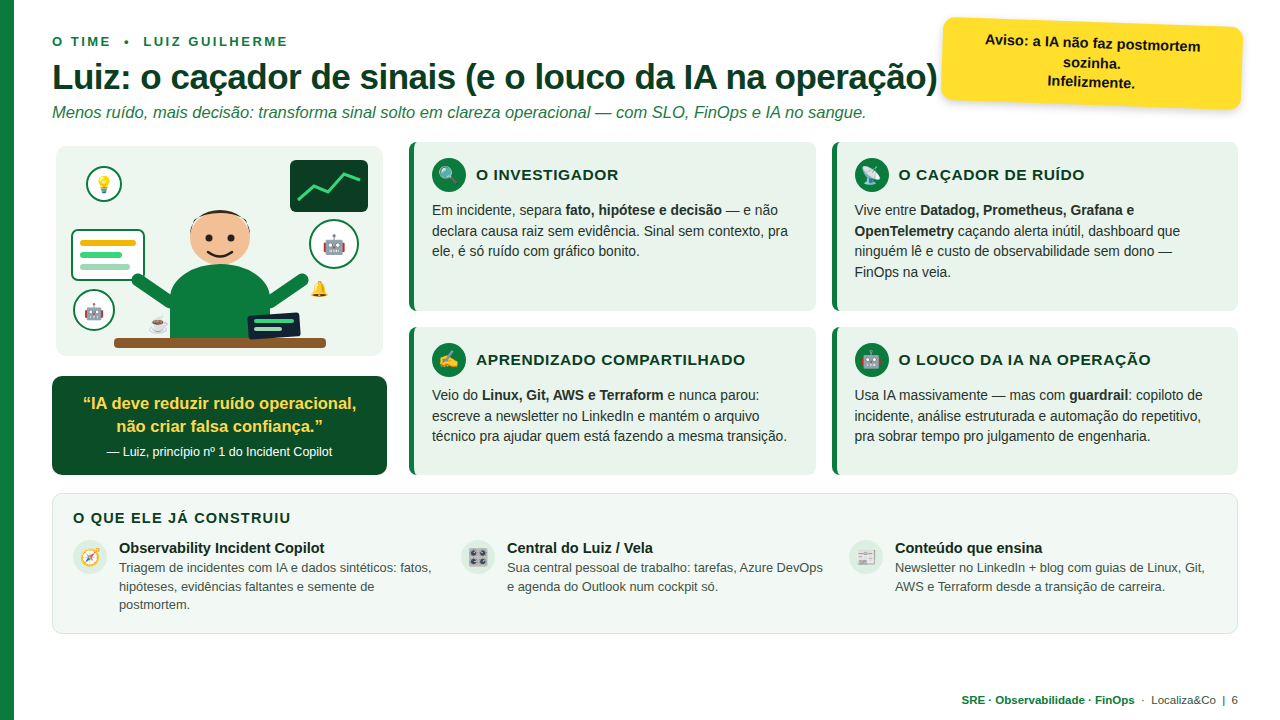
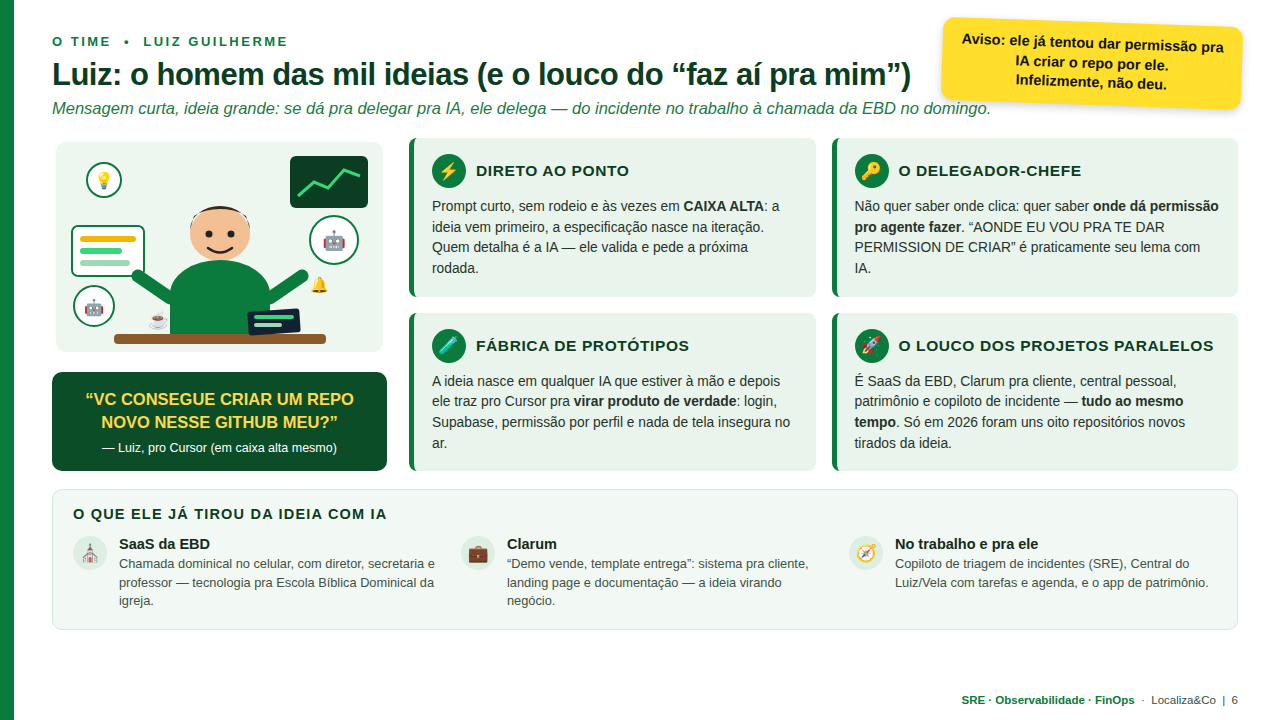
feat: v2 do slide baseada no historico real com o Cursor
Troca o perfil generico de portfolio pelo comportamento observado nas
interacoes: prompt direto/caixa alta, delegacao total ('onde dou
permissao pro agente criar'), fabrica de prototipos entre IAs e os
projetos paralelos de 2026 (SaaS EBD, Clarum, Vela, Incident Copilot).
Frase da caixa verde vira citacao verbatim do transcript da EBD.

diff --git a/luiz-guilherme-slide.html b/luiz-guilherme-slide.html
@@ -8,7 +8,7 @@
   body{background:#dfe8e1;font-family:Arial,Helvetica,sans-serif;display:flex;justify-content:center;padding:24px}
   .slide{width:1280px;height:720px;background:#fff;border-left:14px solid #0a7a3d;position:relative;padding:34px 42px 26px 38px;overflow:hidden;flex:none}
   .eyebrow{color:#0a7a3d;font-weight:800;letter-spacing:2.5px;font-size:13px}
-  h1{color:#0b3d22;font-size:35px;margin:8px 0 6px;letter-spacing:-.5px}
+  h1{color:#0b3d22;font-size:31px;margin:8px 0 6px;letter-spacing:-.5px}
   .sub{color:#1d7a44;font-style:italic;font-size:16.5px}
   .aviso{position:absolute;top:22px;right:38px;width:300px;background:#ffdf2b;color:#111;font-weight:800;font-size:14.5px;text-align:center;padding:12px 16px;border-radius:12px;transform:rotate(2deg);box-shadow:0 3px 8px rgba(0,0,0,.18);line-height:1.35}
   .grid{display:flex;gap:22px;margin-top:20px}
@@ -35,9 +35,9 @@
 <body>
 <section class="slide">
   <div class="eyebrow">O TIME &nbsp;•&nbsp; LUIZ GUILHERME</div>
-  <h1>Luiz: o caçador de sinais (e o louco da IA na operação)</h1>
-  <p class="sub">Menos ruído, mais decisão: transforma sinal solto em clareza operacional — com SLO, FinOps e IA no sangue.</p>
-  <div class="aviso">Aviso: a IA não faz postmortem sozinha.<br>Infelizmente.</div>
+  <h1>Luiz: o homem das mil ideias (e o louco do “faz aí pra mim”)</h1>
+  <p class="sub">Mensagem curta, ideia grande: se dá pra delegar pra IA, ele delega — do incidente no trabalho à chamada da EBD no domingo.</p>
+  <div class="aviso">Aviso: ele já tentou dar permissão pra IA criar o repo por ele.<br>Infelizmente, não deu.</div>
 
   <div class="grid">
     <div class="left">
@@ -60,35 +60,35 @@
         <rect x="196" y="172" width="52" height="24" rx="3" fill="#123" transform="rotate(-4 222 184)"/><rect x="202" y="177" width="40" height="4" rx="2" fill="#37d67a"/><rect x="202" y="185" width="28" height="4" rx="2" fill="#9fd8b4"/>
         <text x="96" y="188" font-size="17">☕</text><text x="258" y="152" font-size="15">🔔</text>
       </svg>
-      <div class="quote"><b>“IA deve reduzir ruído operacional, não criar falsa confiança.”</b><span>— Luiz, princípio nº 1 do Incident Copilot</span></div>
+      <div class="quote"><b>“VC CONSEGUE CRIAR UM REPO NOVO NESSE GITHUB MEU?”</b><span>— Luiz, pro Cursor (em caixa alta mesmo)</span></div>
     </div>
 
     <div class="cards">
       <div class="card">
-        <h3><span class="ico">🔍</span> O INVESTIGADOR</h3>
-        <p>Em incidente, separa <b>fato, hipótese e decisão</b> — e não declara causa raiz sem evidência. Sinal sem contexto, pra ele, é só ruído com gráfico bonito.</p>
+        <h3><span class="ico">⚡</span> DIRETO AO PONTO</h3>
+        <p>Prompt curto, sem rodeio e às vezes em <b>CAIXA ALTA</b>: a ideia vem primeiro, a especificação nasce na iteração. Quem detalha é a IA — ele valida e pede a próxima rodada.</p>
       </div>
       <div class="card">
-        <h3><span class="ico">📡</span> O CAÇADOR DE RUÍDO</h3>
-        <p>Vive entre <b>Datadog, Prometheus, Grafana e OpenTelemetry</b> caçando alerta inútil, dashboard que ninguém lê e custo de observabilidade sem dono — FinOps na veia.</p>
+        <h3><span class="ico">🔑</span> O DELEGADOR-CHEFE</h3>
+        <p>Não quer saber onde clica: quer saber <b>onde dá permissão pro agente fazer</b>. “AONDE EU VOU PRA TE DAR PERMISSION DE CRIAR” é praticamente seu lema com IA.</p>
       </div>
       <div class="card">
-        <h3><span class="ico">✍</span> APRENDIZADO COMPARTILHADO</h3>
-        <p>Veio do <b>Linux, Git, AWS e Terraform</b> e nunca parou: escreve a newsletter no LinkedIn e mantém o arquivo técnico pra ajudar quem está fazendo a mesma transição.</p>
+        <h3><span class="ico">🧪</span> FÁBRICA DE PROTÓTIPOS</h3>
+        <p>A ideia nasce em qualquer IA que estiver à mão e depois ele traz pro Cursor pra <b>virar produto de verdade</b>: login, Supabase, permissão por perfil e nada de tela insegura no ar.</p>
       </div>
       <div class="card">
-        <h3><span class="ico">🤖</span> O LOUCO DA IA NA OPERAÇÃO</h3>
-        <p>Usa IA massivamente — mas com <b>guardrail</b>: copiloto de incidente, análise estruturada e automação do repetitivo, pra sobrar tempo pro julgamento de engenharia.</p>
+        <h3><span class="ico">🚀</span> O LOUCO DOS PROJETOS PARALELOS</h3>
+        <p>É SaaS da EBD, Clarum pra cliente, central pessoal, patrimônio e copiloto de incidente — <b>tudo ao mesmo tempo</b>. Só em 2026 foram uns oito repositórios novos tirados da ideia.</p>
       </div>
     </div>
   </div>
 
   <div class="bottom">
-    <h3>O QUE ELE JÁ CONSTRUIU</h3>
+    <h3>O QUE ELE JÁ TIROU DA IDEIA COM IA</h3>
     <div class="items">
-      <div class="item"><span class="ico">🧭</span><div><b>Observability Incident Copilot</b><p>Triagem de incidentes com IA e dados sintéticos: fatos, hipóteses, evidências faltantes e semente de postmortem.</p></div></div>
-      <div class="item"><span class="ico">🎛</span><div><b>Central do Luiz / Vela</b><p>Sua central pessoal de trabalho: tarefas, Azure DevOps e agenda do Outlook num cockpit só.</p></div></div>
-      <div class="item"><span class="ico">📰</span><div><b>Conteúdo que ensina</b><p>Newsletter no LinkedIn + blog com guias de Linux, Git, AWS e Terraform desde a transição de carreira.</p></div></div>
+      <div class="item"><span class="ico">⛪</span><div><b>SaaS da EBD</b><p>Chamada dominical no celular, com diretor, secretaria e professor — tecnologia pra Escola Bíblica Dominical da igreja.</p></div></div>
+      <div class="item"><span class="ico">💼</span><div><b>Clarum</b><p>“Demo vende, template entrega”: sistema pra cliente, landing page e documentação — a ideia virando negócio.</p></div></div>
+      <div class="item"><span class="ico">🧭</span><div><b>No trabalho e pra ele</b><p>Copiloto de triagem de incidentes (SRE), Central do Luiz/Vela com tarefas e agenda, e o app de patrimônio.</p></div></div>
     </div>
   </div>
 
